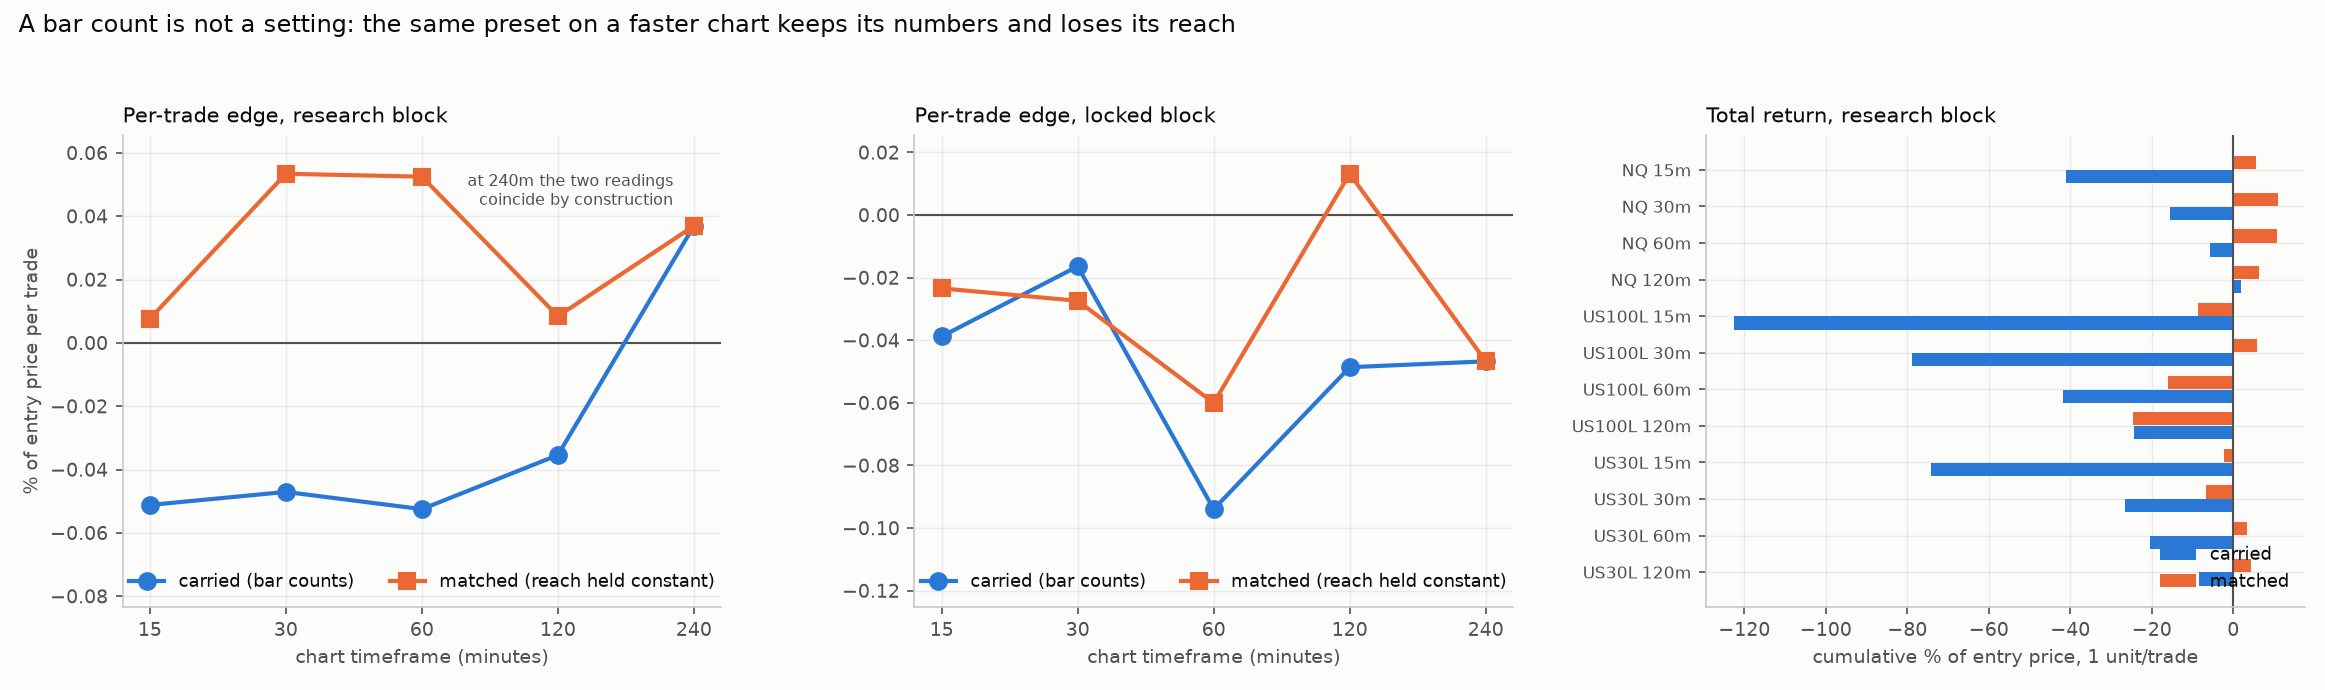
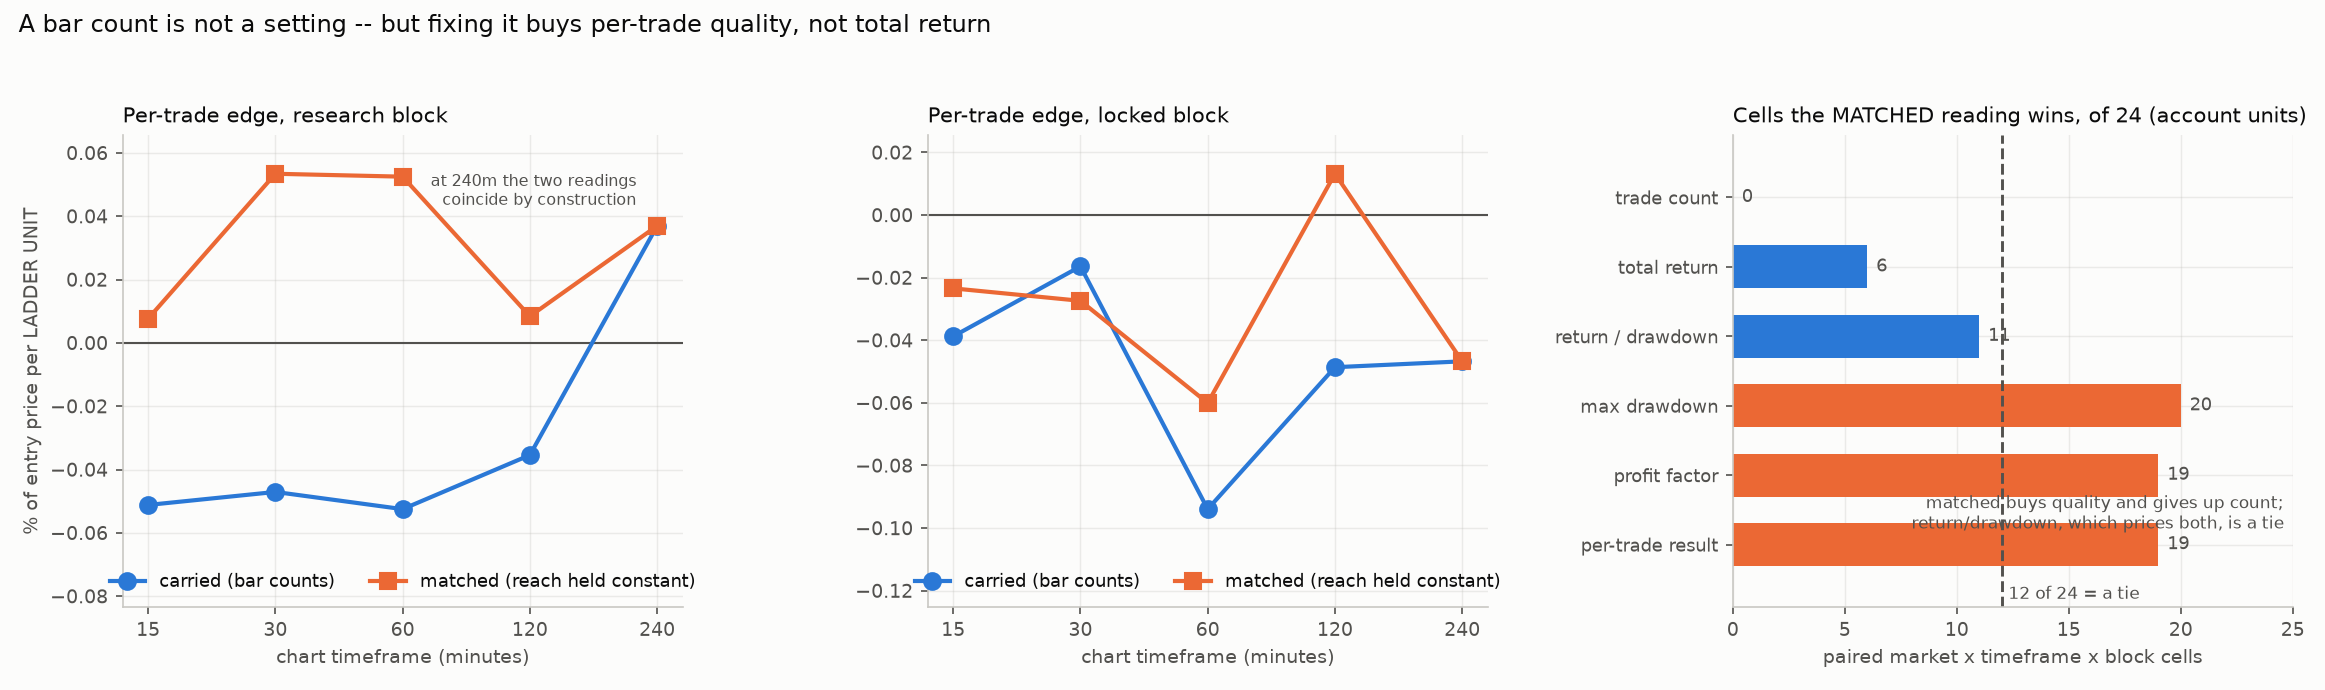
tcandle: correct the total-return claim -- it was per ladder unit, and it reverses
Asked for the average profit factor, and computing it surfaced an error in my
own reporting.

`tc_core.run` defines `pct` PER LADDER UNIT.  That is the right unit for
comparing entry quality across markets and the wrong one for "total return",
because the Turtle's extra units are part of the strategy and the account books
all of them.  The division is also not neutral: a ladder only adds units when the
trade is already going your way, so dividing by units penalises exactly the
winners, and more so for a reading that holds longer.

Re-scored in account units over the same 24 paired cells, the matched reading
wins per-trade result 19/24, profit factor 19/24 (1.714 vs 1.452) and max
drawdown 20/24 -- and LOSES total return 18/24 (+53.31 vs +95.70) by taking a
fifth as many trades (120 vs 577).  Return over drawdown, the one measure that
prices both, is a tie at 11/24.

So the reach fix buys per-trade quality, not total return.  The study, CLAUDE.md
and the script header are corrected in place, the figure's third panel now shows
which measures each reading wins instead of a total-return bar, and
research/tcandle/run_c2c.py writes both units side by side so this cannot recur.

Claude-Session: https://claude.ai/code/session_012H35kYXTgqi4Sy84aD3c23

diff --git a/research/tcandle/run_c2c.py b/research/tcandle/run_c2c.py
@@ -1,0 +1,83 @@
+"""THE UNIT DECIDES WHO WINS, and the study's first pass quoted the wrong one.
+
+`run_c2` reported total return as the sum of `pct`, which `tc_core.run` defines PER UNIT -- the
+per-trade P&L divided by the number of ladder units.  That is the right unit for comparing ENTRY
+QUALITY across markets, and it is the wrong unit for "total return", because the ladder's extra
+units are part of the strategy and the account books all of them.  Worse, the division is not
+neutral: a Turtle ladder only adds units when the trade is already going your way, so dividing by
+units penalises exactly the winners, and it does so more for a reading that holds trades longer.
+
+This re-runs the same grid and writes BOTH, so nothing has to be taken on trust:
+    tot_unit   sum of the per-unit result   (entry quality)
+    tot_acct   sum of units x per-unit      (what one contract per Turtle unit actually books)
+plus max drawdown and return-over-drawdown on the account series, because a reading that trades a
+fifth as often will always lose a total-return race and can still be the better object.
+"""
+from __future__ import annotations
+
+import sys
+
+import numpy as np
+import pandas as pd
+
+sys.path.insert(0, "research/tcandle")
+import tc_core as T                                     # noqa: E402
+from run_c2 import lengths                              # noqa: E402
+
+
+def mdd(x):
+    eq = np.cumsum(x)
+    return float(np.max(np.maximum.accumulate(np.r_[0.0, eq]) - np.r_[0.0, eq]))
+
+
+if __name__ == "__main__":
+    pd.set_option("display.width", 220)
+    rows = []
+    for mkt in ("NQ", "US100L", "US30L"):
+        for tf in T.TFS:
+            for mode in ("carried", "matched"):
+                d = T.frame(mkt, tf)
+                atr, adx, dist = T.context(d)
+                C = T.channels(d, *lengths(tf, mode))
+                base = T.gate_mask(adx, dist, 22.0, 0.0) & np.isfinite(atr) & (atr > 0)
+                cut = T.split(d)
+                for blk, lo, hi in (("research", 0, cut), ("locked", cut, len(d["c"]))):
+                    m = base.copy(); m[:lo] = False; m[hi:] = False
+                    tr = T.run(d, C, atr, m, T.COST[mkt])
+                    if len(tr) < 5:
+                        continue
+                    u = tr["units"].to_numpy(float)
+                    p = tr["pct"].to_numpy(float)
+                    a = p * u
+                    rows.append(dict(mkt=mkt, tf=tf, mode=mode, block=blk, n=len(tr),
+                                     units=u.mean(), per_unit=p.mean(), per_acct=a.mean(),
+                                     tot_unit=p.sum(), tot_acct=a.sum(), dd=mdd(a),
+                                     rdd=a.sum() / max(mdd(a), 1e-9),
+                                     pf=a[a > 0].sum() / max(-a[a < 0].sum(), 1e-9)))
+    f = pd.DataFrame(rows)
+    f.to_csv("research/tcandle/c2c_units.csv", index=False)
+    print(f.to_string(index=False, float_format=lambda x: f"{x:,.3f}"))
+
+    s = f[f.tf != 240]
+    w = s.pivot_table(index=["mkt", "tf", "block"], columns="mode",
+                      values=["tot_unit", "tot_acct", "dd", "rdd", "pf", "n", "per_acct"])
+    print("\n" + "=" * 92)
+    print("WHO WINS ON WHAT -- 24 paired cells, 240m excluded (the readings coincide there)")
+    print("=" * 92)
+    for col, nm, lower in (("tot_unit", "total return, PER UNIT", False),
+                           ("tot_acct", "total return, ACCOUNT (all ladder units)", False),
+                           ("per_acct", "per-trade account result", False),
+                           ("pf", "profit factor (account)", False),
+                           ("dd", "max drawdown", True),
+                           ("rdd", "return / drawdown", False),
+                           ("n", "trade count", False)):
+        a, b = w[col]["matched"], w[col]["carried"]
+        win = int((a < b).sum()) if lower else int((a > b).sum())
+        print(f"  {nm:<42} matched wins {win:2d}/{len(w)}"
+              f"   carried {b.mean():9.3f}   matched {a.mean():9.3f}")
+    print("\nPOOLED PROFIT FACTOR (sum gross profit / sum gross loss, account units)")
+    g = f.groupby(["mode", "block"]).apply(
+        lambda x: pd.Series({"cells": len(x), "trades": x.n.sum(),
+                             "mean cell PF": x.pf.mean(), "median cell PF": x.pf.median()}),
+        include_groups=False)
+    print(g.to_string(float_format=lambda v: f"{v:,.3f}"))

diff --git a/research/tcandle/plot_tc.py b/research/tcandle/plot_tc.py
@@ -66,7 +66,7 @@ def fig_timeframe():
         ax[k].get_xaxis().set_major_formatter(matplotlib.ticker.FixedFormatter(
             [str(t) for t in tfs]))
         _tidy(ax[k], f"Per-trade edge, {blk} block", "chart timeframe (minutes)",
-              "% of entry price per trade" if k == 0 else None)
+              "% of entry price per LADDER UNIT" if k == 0 else None)
         lo, hi = ax[k].get_ylim()
         ax[k].set_ylim(lo - (hi - lo) * 0.22, hi + (hi - lo) * 0.06)
         ax[k].legend(frameon=False, fontsize=8.5, loc="lower center", ncol=2)
@@ -74,21 +74,34 @@ def fig_timeframe():
                    fontsize=7.5, color=INK2, ha="right",
                    textcoords="offset points", xytext=(-10, 10))
 
-    sub = df[df.tf != 240].copy()
-    sub["cell"] = sub.mkt + " " + sub.tf.astype(str) + "m"
-    order = (sub[["mkt", "tf", "cell"]].drop_duplicates()
-             .sort_values(["mkt", "tf"], ascending=[False, False])["cell"].tolist())
-    w = sub.pivot_table(index="cell", columns="mode", values="totA").reindex(order)
-    y = np.arange(len(w))
-    ax[2].barh(y - 0.19, w["carried"], 0.36, color=C_CARRIED, label="carried")
-    ax[2].barh(y + 0.19, w["matched"], 0.36, color=C_MATCHED, label="matched")
-    ax[2].axvline(0, color=INK2, lw=1.0)
+    u = pd.read_csv(f"{HERE}/c2c_units.csv")
+    w = u[u.tf != 240].pivot_table(index=["mkt", "tf", "block"], columns="mode",
+                                   values=["per_acct", "pf", "dd", "rdd", "tot_acct", "n"])
+    meas = [("per_acct", "per-trade result", False), ("pf", "profit factor", False),
+            ("dd", "max drawdown", True), ("rdd", "return / drawdown", False),
+            ("tot_acct", "total return", False), ("n", "trade count", False)]
+    names, wins = [], []
+    for col, nm, lower in meas:
+        a, b = w[col]["matched"], w[col]["carried"]
+        wins.append(int((a < b).sum()) if lower else int((a > b).sum()))
+        names.append(nm)
+    y = np.arange(len(names))
+    cols = [C_MATCHED if v > 12 else C_CARRIED for v in wins]
+    ax[2].barh(y, wins, 0.62, color=cols)
+    ax[2].axvline(12, color=INK2, lw=1.4, ls="--")
+    ax[2].text(12.3, -0.78, "12 of 24 = a tie", color=INK2, fontsize=8)
+    for i, v in enumerate(wins):
+        ax[2].text(v + 0.4, i, str(v), va="center", fontsize=8.5, color=INK2)
     ax[2].set_yticks(y)
-    ax[2].set_yticklabels(w.index, fontsize=8)
-    _tidy(ax[2], "Total return, research block", "cumulative % of entry price, 1 unit/trade")
-    ax[2].legend(frameon=False, fontsize=8.5, loc="lower right")
-    fig.suptitle("A bar count is not a setting: the same preset on a faster chart keeps its numbers "
-                 "and loses its reach", fontsize=11.5, x=0.008, ha="left", color=INK)
+    ax[2].set_yticklabels(names, fontsize=8.5)
+    ax[2].set_xlim(0, 25)
+    _tidy(ax[2], "Cells the MATCHED reading wins, of 24 (account units)",
+          "paired market x timeframe x block cells")
+    ax[2].set_ylim(-0.9, len(names) - 0.1)
+    ax[2].text(24.6, 0.15,
+               "matched buys quality and gives up count;\nreturn/drawdown, which prices both, is a tie",
+               fontsize=8, color=INK2, va="bottom", ha="right")
+    fig.suptitle("A bar count is not a setting -- but fixing it buys per-trade quality, not total return", fontsize=11.5, x=0.008, ha="left", color=INK)
     fig.tight_layout(rect=(0, 0, 1, 0.94))
     fig.savefig(f"{HERE}/fig1_timeframe.png", dpi=150)
     plt.close(fig)

diff --git a/docs/ib/STUDY_TURTLE_CANDLES_TF.md b/docs/ib/STUDY_TURTLE_CANDLES_TF.md
@@ -43,14 +43,29 @@ four of five.** Paired cell by cell, excluding 240m where the two readings coinc
 matched beats carried in **9 of 12 research cells and 9 of 12 locked cells** (mean +0.0770 and
 +0.0250 per trade).
 
-**And it is not the usual trade-count artifact.** The matched reading keeps only 12–64% of the
-trades, which is exactly the shape that has faked an improvement repeatedly on this branch — so the
-same comparison was run on **total** return, where trading less is a cost rather than a free win.
-Matched beats carried in **11 of 12 research cells and 9 of 12 locked cells** there too, and the gap
-is not marginal: mean total return over the twelve cells is **−38.13% carried against −0.91% matched**
-on research and **−16.50% against +0.25%** on the locked block. The bar-count reading is not merely
-worse per trade; it is what makes the strategy lose money on any chart faster than the one its preset
-names.
+**CORRECTED — the total-return claim was in the wrong unit, and it reverses.** The first pass
+reported total return as the sum of `pct`, which `tc_core.run` defines **per ladder unit**. That is
+the right unit for comparing *entry quality* across markets and the wrong one for "total return",
+because the Turtle's extra units are part of the strategy and the account books all of them — and
+the division is not neutral, since a ladder only adds units when the trade is already going your
+way, so dividing by units penalises exactly the winners. Re-scored in **account units** (units ×
+per-unit result), over the same 24 paired cells:
+
+| measure | matched wins | carried mean | matched mean |
+|---|---|---|---|
+| per-trade result | **19 of 24** | +0.283 | **+0.494** |
+| profit factor | **19 of 24** | 1.452 | **1.714** |
+| max drawdown (lower better) | **20 of 24** | 28.09 | **21.24** |
+| return / drawdown | 11 of 24 | **4.28** | 3.20 |
+| total return | 6 of 24 | **+95.70** | +53.31 |
+| trade count | 0 of 24 | **577** | 120 |
+
+**So the reach fix buys per-trade quality, a higher profit factor and a shallower drawdown, and gives
+up 79% of the trades to get them — and on return-over-drawdown, the one measure that prices both, the
+two readings are a tie (11 of 24).** The per-unit reading is still the correct one for judging entry
+quality and it still says matched wins 20 of 24; it is simply not a statement about total return, and
+presenting it as one overstated the finding. `research/tcandle/run_c2c.py` writes both units side by
+side so this cannot recur.
 
 What that does and does not say. It is a **units fix, not a fitted parameter** — nothing here was
 chosen to make a number larger, and the reference reach is the preset's own. It does not make the
@@ -283,9 +298,11 @@ Twenty cells — five market × timeframe pairs × carried/matched × research/l
 | **matched** | research | 5 | **+0.0320** | −0.32 | **0.497** | 1.69× |
 | **matched** | locked | 5 | **+0.0289** | **+3.63** | **0.414** | 2.07× |
 
-**Matched beats carried on total return in 10 of 10 cells and has the lower P(mean ≤ 0) in 10 of
-10.** That is the strongest form of the timeframe finding in the study, and it is a *paired*
-comparison on identical bars with only the units differing.
+**Matched beats carried on per-unit total in 10 of 10 cells and has the lower P(mean ≤ 0) in 10 of
+10** — a paired comparison on identical bars with only the units differing. Read §1's correction
+alongside it: these MC figures are computed on the **per-unit** series, so they price *entry quality*
+and not the account's total. In account units the total-return ranking reverses, because the carried
+reading takes 4.8× the trades.
 
 **But 0 of 20 cells have a bootstrap that excludes zero on the positive side** — and two *carried*
 cells exclude it on the **negative** side (US100L 30m research, 95% CI [−0.1100, −0.0322],
@@ -315,7 +332,9 @@ the matched arm's locked cells are the widest (2.07× on average), because they 
 
 `pine/tcandle/TURTLE_SCALED_CANDLES_strategy.pine`:
 
-* **`scaleToChart` ON.** The preset's reach in minutes is held constant, so its channels mean the
+* **`scaleToChart` ON** — on per-trade quality, profit factor and drawdown, which it wins 19–20 of
+  24 paired cells, *not* on total return, which it loses 18 of 24 by trading a fifth as often.
+  Return-over-drawdown is a tie. The preset's reach in minutes is held constant, so its channels mean the
   same amount of market on any chart, and the hard timeframe lock is released while scaling is on.
   Turning it off reproduces the original script exactly.
 * **The ATR is not scaled**, on the measurement in §4.

diff --git a/CLAUDE.md b/CLAUDE.md
@@ -4215,10 +4215,15 @@ markets x five timeframes x two blocks: **CARRIED bar counts are negative at eve
 the one each preset was measured on (-0.051/-0.047/-0.053/-0.035 research), while holding the
 preset's REACH IN MINUTES constant is positive at four of five (+0.008/+0.053/+0.053/+0.008)**.
 Paired cell by cell, matched beats carried in **9 of 12 research and 9 of 12 locked cells** per
-trade -- and because matched keeps only 12-64% of the trades, which is the shape that has faked an
-improvement repeatedly here, the same comparison was run on TOTAL return where trading less is a
-cost: **11 of 12 and 9 of 12 there, mean total -38.13% carried against -0.91% matched on research**
-and -16.50% against +0.25% on locked. It is a UNITS FIX, not a fitted parameter. **AND THE ATR MUST
+trade. **AND THE UNIT THE TOTAL IS SCORED IN DECIDES WHO WINS -- I GOT THIS WRONG FIRST.** The first
+pass summed a PER-LADDER-UNIT result and reported it as total return, which reverses: over 24 paired
+cells in ACCOUNT units (units x per-unit result) matched wins per-trade result **19/24**, profit
+factor **19/24** (1.714 against 1.452) and max drawdown **20/24**, while carried wins TOTAL RETURN
+**18/24** (+95.70 against +53.31) purely by taking **4.8x the trades** (577 against 120) -- and
+return-over-drawdown, the one measure pricing both, is a **TIE at 11/24**. Dividing by units is not
+neutral on a pyramiding system: a ladder only adds units when the trade is already going your way,
+so the division penalises exactly the winners. It is a UNITS FIX that buys QUALITY, not a total-return
+improvement; `research/tcandle/run_c2c.py` prints both units side by side so it cannot recur. **AND THE ATR MUST
 NOT BE SCALED WITH THE CHANNELS**: `atrLen` is a bar count too, and scaling it as well beats
 channels-only in 4 of 12 research and 6 of 12 locked cells. A channel length is a statement about how
 much market a breakout must clear, which is a quantity of TIME; ATR(20) is a statement about how much
@@ -4243,8 +4248,9 @@ that CLOSES UP, close-position and upper-wick share sum to 1 at max |diff| **0.0
 -1.0000), but a breakout bar closes up only **78-79%** of the time, so over all signal bars they
 correlate -0.75 to -0.81 -- a near-duplicate whose 21% of disagreement IS the failed-break population.
 
-**AND THE PAIRED MONTE CARLO IS WHERE THE UNITS FIX BECOMES UNAMBIGUOUS: MATCHED BEATS CARRIED IN
-10 OF 10 CELLS ON TOTAL RETURN AND 10 OF 10 ON P(mean<=0).** Twenty cells through four Monte Carlos
+**AND THE PAIRED MONTE CARLO AGREES ON THE PER-UNIT READING: MATCHED BEATS CARRIED IN 10 OF 10
+CELLS ON PER-UNIT TOTAL AND 10 OF 10 ON P(mean<=0)** -- read with the unit caveat above, since these
+are computed on the per-unit series and price ENTRY QUALITY rather than the account's total. Twenty cells through four Monte Carlos
 kept apart -- day-block bootstrap for the EDGE, permutation for the PATH, a round turn drawn
 U(0.5x,2x) INSIDE the walk for EXECUTION, and price jitter with ATR, ADX, EMA100 and all four
 channels RECOMPUTED for DATA. **0 of 20 cells clear zero on the positive side, and two CARRIED cells
